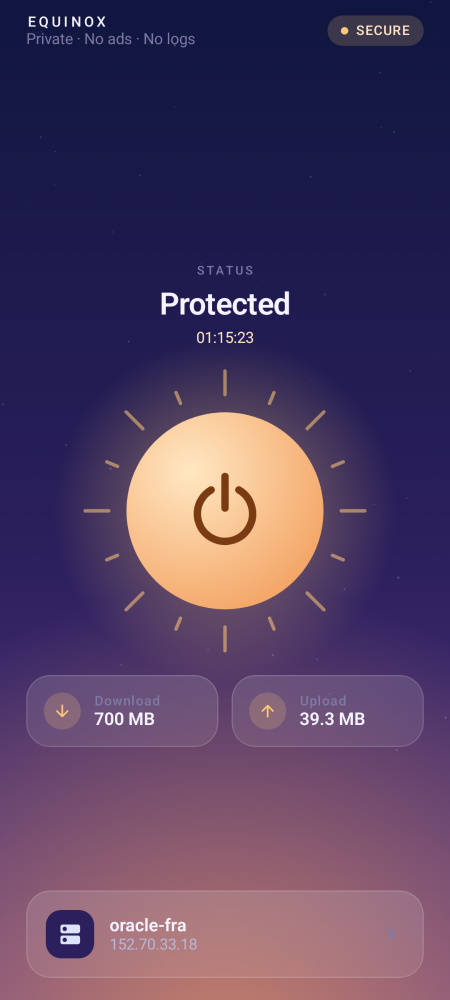
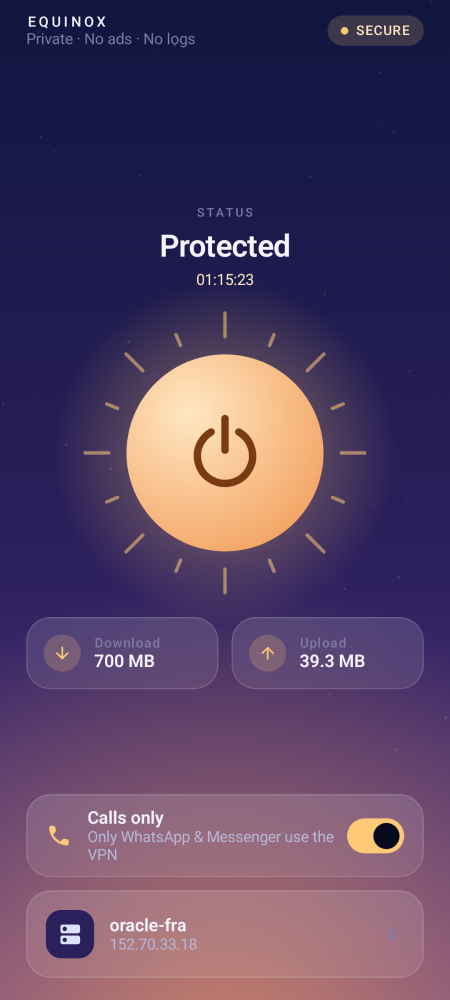
Add "Calls only" mode for WhatsApp and Messenger
When enabled, the tunnel uses Android per-app VPN routing so only
WhatsApp (incl. Business) and Messenger (incl. Lite) go through it;
everything else stays on the normal connection. Toggling while
connected re-applies the routing. README gains a no-server
Cloudflare WARP setup via wgcf.

Claude-Session: https://claude.ai/code/session_01LS1nYKCmqpYZK9nxqDuWuR

diff --git a/app/src/main/java/app/equinox/vpn/ui/HomeScreen.kt b/app/src/main/java/app/equinox/vpn/ui/HomeScreen.kt
@@ -10,6 +10,7 @@ import androidx.compose.animation.slideOutVertically
 import androidx.compose.animation.togetherWith
 import androidx.compose.foundation.background
 import androidx.compose.foundation.clickable
+import androidx.compose.foundation.selection.toggleable
 import androidx.compose.foundation.layout.Arrangement
 import androidx.compose.foundation.layout.Box
 import androidx.compose.foundation.layout.Column
@@ -27,6 +28,7 @@ import androidx.compose.foundation.shape.RoundedCornerShape
 import androidx.compose.material.icons.Icons
 import androidx.compose.material.icons.rounded.ArrowDownward
 import androidx.compose.material.icons.rounded.ArrowUpward
+import androidx.compose.material.icons.rounded.Call
 import androidx.compose.material.icons.rounded.ChevronRight
 import androidx.compose.material.icons.rounded.Dns
 import androidx.compose.material.icons.rounded.Shield
@@ -35,6 +37,8 @@ import androidx.compose.material3.MaterialTheme
 import androidx.compose.material3.Snackbar
 import androidx.compose.material3.SnackbarHost
 import androidx.compose.material3.SnackbarHostState
+import androidx.compose.material3.Switch
+import androidx.compose.material3.SwitchDefaults
 import androidx.compose.material3.Text
 import androidx.compose.runtime.Composable
 import androidx.compose.runtime.LaunchedEffect
@@ -51,6 +55,7 @@ import androidx.compose.ui.graphics.lerp
 import androidx.compose.ui.graphics.vector.ImageVector
 import androidx.compose.ui.hapticfeedback.HapticFeedbackType
 import androidx.compose.ui.platform.LocalHapticFeedback
+import androidx.compose.ui.semantics.Role
 import androidx.compose.ui.text.TextStyle
 import androidx.compose.ui.text.style.TextOverflow
 import androidx.compose.ui.unit.dp
@@ -80,6 +85,7 @@ fun HomeScreen(
     val profiles by vm.profiles.collectAsStateWithLifecycle()
     val selected by vm.selected.collectAsStateWithLifecycle()
     val traffic by vm.traffic.collectAsStateWithLifecycle()
+    val callsOnly by vm.callsOnly.collectAsStateWithLifecycle()
     val snackbar = remember { SnackbarHostState() }
 
     LaunchedEffect(Unit) { vm.messages.collect { snackbar.showSnackbar(it) } }
@@ -89,6 +95,7 @@ fun HomeScreen(
         profiles = profiles,
         selected = selected,
         traffic = traffic,
+        callsOnly = callsOnly,
         snackbar = snackbar,
         onConnect = onConnect,
         onDisconnect = vm::disconnect,
@@ -97,6 +104,7 @@ fun HomeScreen(
         onScanQr = onScanQr,
         onImportFile = onImportFile,
         onPaste = vm::importText,
+        onCallsOnlyChange = vm::setCallsOnly,
     )
 }
 
@@ -106,6 +114,7 @@ fun HomeContent(
     profiles: List<Profile>,
     selected: Profile?,
     traffic: Traffic,
+    callsOnly: Boolean,
     snackbar: SnackbarHostState,
     onConnect: () -> Unit,
     onDisconnect: () -> Unit,
@@ -114,6 +123,7 @@ fun HomeContent(
     onScanQr: () -> Unit,
     onImportFile: () -> Unit,
     onPaste: (String, String) -> Boolean,
+    onCallsOnlyChange: (Boolean) -> Unit,
     initiallyShowSheet: Boolean = false,
 ) {
     val haptics = LocalHapticFeedback.current
@@ -206,6 +216,8 @@ fun HomeContent(
 
             Spacer(Modifier.weight(0.4f))
 
+            CallsOnlyCard(callsOnly, enabled = !busy, onChange = onCallsOnlyChange)
+            Spacer(Modifier.height(12.dp))
             ServerCard(selected, onClick = { showSheet = true })
             Spacer(Modifier.height(8.dp))
         }
@@ -290,6 +302,41 @@ private fun StatCard(icon: ImageVector, label: String, value: String, day: Float
                 Text(label, style = MaterialTheme.typography.labelMedium, color = Sky.TextMuted)
                 Text(value, style = MaterialTheme.typography.titleMedium.merge(Tabular), color = Sky.TextPrimary)
             }
+        }
+    }
+}
+
+@Composable
+private fun CallsOnlyCard(checked: Boolean, enabled: Boolean, onChange: (Boolean) -> Unit) {
+    Glass(Modifier.fillMaxWidth()) {
+        Row(
+            Modifier
+                .toggleable(checked, enabled = enabled, role = Role.Switch, onValueChange = onChange)
+                .padding(horizontal = 18.dp, vertical = 12.dp),
+            verticalAlignment = Alignment.CenterVertically,
+        ) {
+            Icon(Icons.Rounded.Call, null, tint = if (checked) Sky.Gold else Sky.Moon)
+            Spacer(Modifier.width(14.dp))
+            Column(Modifier.weight(1f)) {
+                Text("Calls only", style = MaterialTheme.typography.titleMedium, color = Sky.TextPrimary)
+                Text(
+                    if (checked) "Only WhatsApp & Messenger" else "All apps go through the VPN",
+                    style = MaterialTheme.typography.bodyMedium,
+                    color = Sky.TextSecondary,
+                )
+            }
+            Switch(
+                checked = checked,
+                onCheckedChange = null,
+                enabled = enabled,
+                colors = SwitchDefaults.colors(
+                    checkedThumbColor = Sky.Midnight,
+                    checkedTrackColor = Sky.Gold,
+                    uncheckedThumbColor = Sky.Moon,
+                    uncheckedTrackColor = Sky.Glass,
+                    uncheckedBorderColor = Sky.GlassBorder,
+                ),
+            )
         }
     }
 }

diff --git a/app/src/main/java/app/equinox/vpn/vpn/VpnController.kt b/app/src/main/java/app/equinox/vpn/vpn/VpnController.kt
@@ -25,7 +25,8 @@ data class Traffic(val rx: Long = 0, val tx: Long = 0)
 
 /** Thin wrapper around the WireGuard Go backend. One tunnel at a time. */
 class VpnController(context: Context) {
-    private val backend: Backend by lazy { GoBackend(context.applicationContext) }
+    private val appContext = context.applicationContext
+    private val backend: Backend by lazy { GoBackend(appContext) }
 
     private val _state = MutableStateFlow(VpnState())
     val state: StateFlow<VpnState> = _state.asStateFlow()
@@ -42,16 +43,23 @@ class VpnController(context: Context) {
         }
     }
 
-    suspend fun connect(profile: Profile) = withContext(Dispatchers.IO) {
+    suspend fun connect(profile: Profile, callsOnly: Boolean) = withContext(Dispatchers.IO) {
         _state.value = VpnState(Phase.Connecting, profile.name)
         try {
+            val config = if (callsOnly) {
+                val apps = CallsOnly.installed(appContext.packageManager)
+                if (apps.isEmpty()) throw IllegalStateException("WhatsApp or Messenger isn't installed")
+                CallsOnly.restrict(profile.config, apps)
+            } else {
+                profile.config
+            }
             val previous = tunnel
             if (previous != null && previous.name != profile.name) {
                 backend.setState(previous, Tunnel.State.DOWN, null)
             }
             val next = previous?.takeIf { it.name == profile.name } ?: AppTunnel(profile.name)
             tunnel = next
-            backend.setState(next, Tunnel.State.UP, profile.config)
+            backend.setState(next, Tunnel.State.UP, config)
             _state.value = VpnState(Phase.Connected, profile.name, System.currentTimeMillis())
         } catch (e: Exception) {
             tunnel = null

diff --git a/app/src/main/java/app/equinox/vpn/vpn/CallsOnly.kt b/app/src/main/java/app/equinox/vpn/vpn/CallsOnly.kt
@@ -1,0 +1,36 @@
+package app.equinox.vpn.vpn
+
+import android.content.pm.PackageManager
+import com.wireguard.config.Config
+import com.wireguard.config.Interface
+
+/** "Calls only" mode: route just WhatsApp and Messenger through the tunnel. */
+object CallsOnly {
+    val PACKAGES = listOf(
+        "com.whatsapp",          // WhatsApp
+        "com.whatsapp.w4b",      // WhatsApp Business
+        "com.facebook.orca",     // Messenger
+        "com.facebook.mlite",    // Messenger Lite
+    )
+
+    fun installed(pm: PackageManager): List<String> = PACKAGES.filter {
+        runCatching { pm.getPackageInfo(it, 0) }.isSuccess
+    }
+
+    /** Returns a copy of [config] that only tunnels [apps]. */
+    fun restrict(config: Config, apps: Collection<String>): Config {
+        val src = config.`interface`
+        val iface = Interface.Builder()
+            .setKeyPair(src.keyPair)
+            .addAddresses(src.addresses)
+            .addDnsServers(src.dnsServers)
+            .addDnsSearchDomains(src.dnsSearchDomains)
+            .includeApplications(apps)
+            .apply {
+                src.listenPort.ifPresent { setListenPort(it) }
+                src.mtu.ifPresent { setMtu(it) }
+            }
+            .build()
+        return Config.Builder().setInterface(iface).addPeers(config.peers).build()
+    }
+}

diff --git a/app/src/main/java/app/equinox/vpn/ui/MainViewModel.kt b/app/src/main/java/app/equinox/vpn/ui/MainViewModel.kt
@@ -29,6 +29,7 @@ class MainViewModel(app: Application) : AndroidViewModel(app) {
 
     val vpnState = vpn.state
     val profiles = store.profiles
+    val callsOnly = store.callsOnly
 
     val selected: StateFlow<Profile?> = combine(store.profiles, store.selected) { list, name ->
         list.firstOrNull { it.name == name } ?: list.firstOrNull()
@@ -53,7 +54,7 @@ class MainViewModel(app: Application) : AndroidViewModel(app) {
     fun connect() {
         val profile = selected.value ?: return
         viewModelScope.launch {
-            runCatching { vpn.connect(profile) }.onFailure { _messages.tryEmit(it.message ?: "Connection failed") }
+            runCatching { vpn.connect(profile, store.callsOnly.value) }.onFailure { _messages.tryEmit(it.message ?: "Connection failed") }
         }
     }
 
@@ -61,6 +62,12 @@ class MainViewModel(app: Application) : AndroidViewModel(app) {
         viewModelScope.launch {
             runCatching { vpn.disconnect() }.onFailure { _messages.tryEmit("Could not disconnect cleanly") }
         }
+    }
+
+    fun setCallsOnly(enabled: Boolean) {
+        store.setCallsOnly(enabled)
+        // Re-apply routing to a live tunnel.
+        if (vpnState.value.phase == Phase.Connected) connect()
     }
 
     fun select(profile: Profile) {

diff --git a/app/src/main/java/app/equinox/vpn/data/ProfileStore.kt b/app/src/main/java/app/equinox/vpn/data/ProfileStore.kt
@@ -25,6 +25,14 @@ class ProfileStore(context: Context) {
     private val _selected = MutableStateFlow(prefs.getString(KEY_SELECTED, null))
     val selected: StateFlow<String?> = _selected.asStateFlow()
 
+    private val _callsOnly = MutableStateFlow(prefs.getBoolean(KEY_CALLS_ONLY, false))
+    val callsOnly: StateFlow<Boolean> = _callsOnly.asStateFlow()
+
+    fun setCallsOnly(enabled: Boolean) {
+        _callsOnly.value = enabled
+        prefs.edit().putBoolean(KEY_CALLS_ONLY, enabled).apply()
+    }
+
     /** Parses [text] as a WireGuard config and saves it. Returns the saved profile. */
     fun add(rawName: String, text: String): Profile {
         val config = parse(text)
@@ -66,6 +74,7 @@ class ProfileStore(context: Context) {
 
     companion object {
         private const val KEY_SELECTED = "selected"
+        private const val KEY_CALLS_ONLY = "calls_only"
         // WireGuard interface names: ^[a-zA-Z0-9_=+.-]{1,15}$
         private const val MAX_NAME = 15
 

diff --git a/README.md b/README.md
@@ -9,6 +9,7 @@ A personal VPN app for Android with **no ads, no tracking and no accounts**. It 
 - **One theme that blends night and day:** a night sky with a moon while you're unprotected, which turns into a sunrise and a sun once you connect.
 - English only, one main screen, one button.
 - Built on the official **WireGuard** engine (fast, modern, low battery use).
+- **Calls only** mode: only WhatsApp and Messenger go through the VPN, and every other app uses the normal internet at full speed.
 - Add a server by **QR code**, a `.conf` file, or by pasting the config text.
 
 ---
@@ -20,6 +21,22 @@ a machine that runs all the time + UDP traffic + root network access. Vercel pro
 The free alternative that does work is **Oracle Cloud Always Free** (a real server, free with no time limit).
 
 ---
+
+## Fastest way (no server, no card): Cloudflare WARP
+
+1. Install **Termux** from F-Droid.
+2. From [github.com/ViRb3/wgcf/releases](https://github.com/ViRb3/wgcf/releases), download the file ending in `linux_arm64`.
+3. In Termux:
+   ```bash
+   termux-setup-storage
+   cp ~/storage/downloads/wgcf_*_linux_arm64 ~/wgcf && chmod +x ~/wgcf
+   cd ~ && ./wgcf register --accept-tos && ./wgcf generate
+   cp wgcf-profile.conf ~/storage/downloads/
+   ```
+4. In Equinox: **Import file** → `wgcf-profile.conf` → connect.
+
+> WARP hides your IP and encrypts traffic, but it usually doesn't change your apparent country, and some networks block it.
+> For a server that only you control, follow the steps below.
 
 ## Step 1: Get a free server (once)
 
